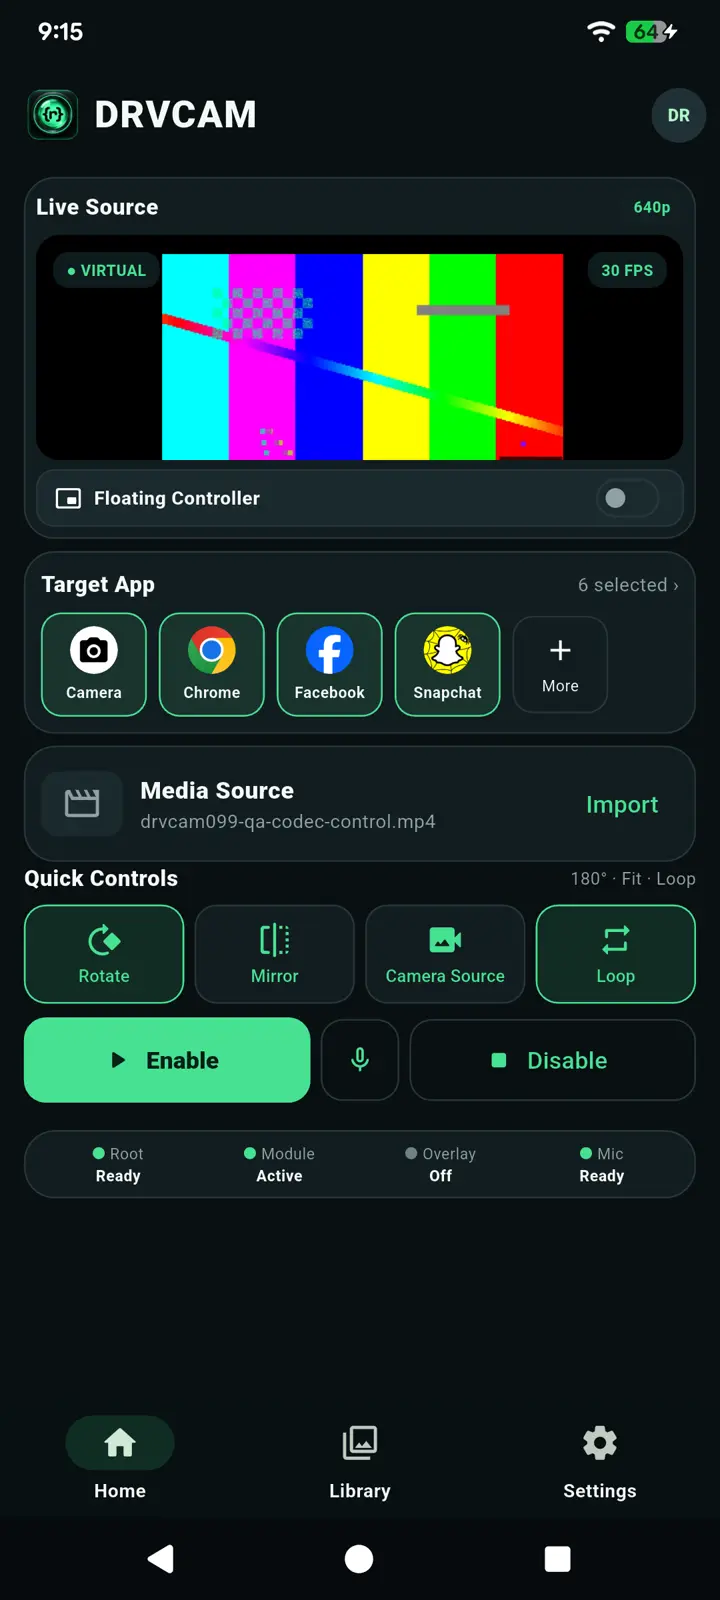
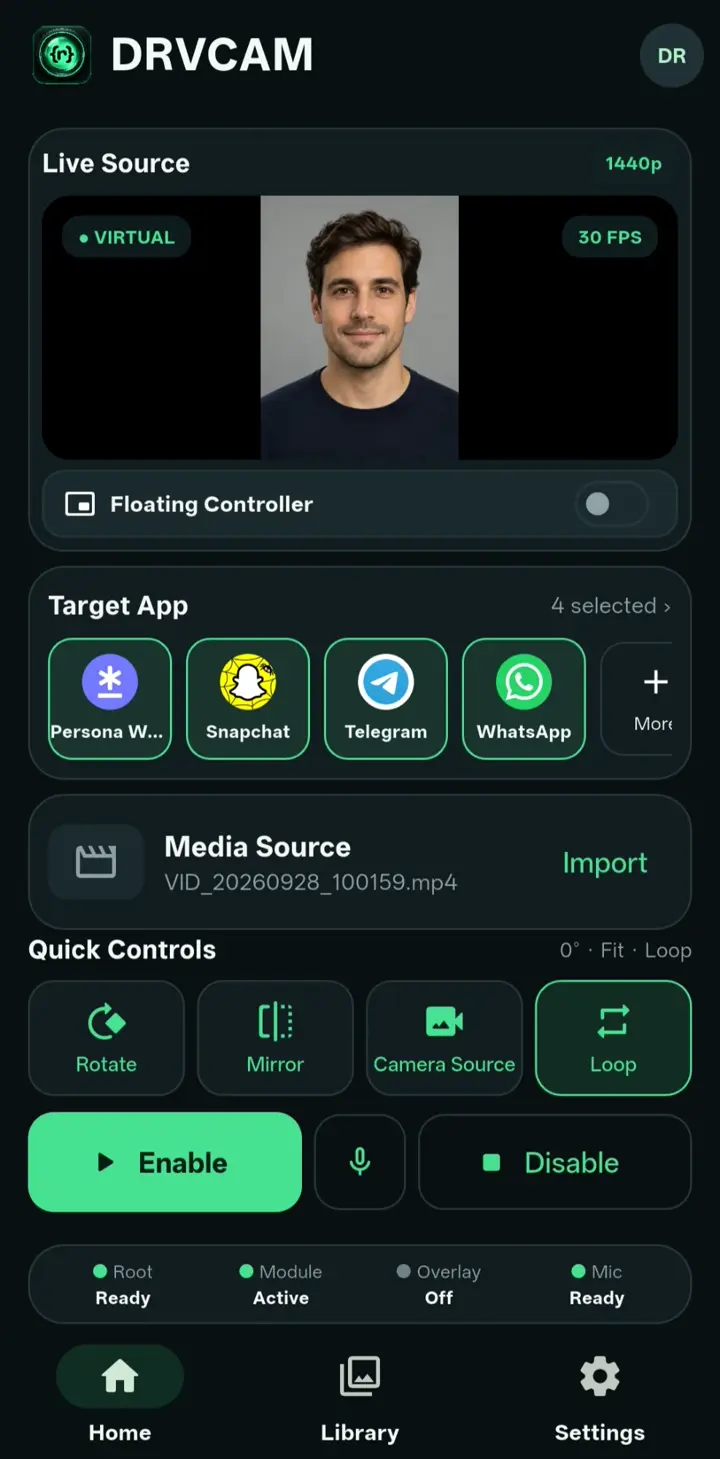
docs: simplify downloads to two files, swap in better screenshots
- Only phone and emulator builds are released now; dropped the
  legacy/modern duplicate-named copies from the download table.
- Home and Floating Controller screenshots replaced with clearer shots.
- Presets screenshot was cropped before Preset 4; fixed.

diff --git a/README.ja.md b/README.ja.md
@@ -57,10 +57,8 @@
 
 | ビルド | Android | 対象 |
 |---|---|---|
-| `DRVCAM-modern-phone.apk` | 9〜17 | スマートフォン・タブレット、arm64 |
-| `DRVCAM-legacy-phone.apk` | 9〜17 | スマートフォン・タブレット、arm64 |
-| `DRVCAM-modern-emulator.apk` | 9〜17 | エミュレーター、x86_64 |
-| `DRVCAM-legacy-emulator.apk` | 9〜17 | エミュレーター、x86_64 |
+| `DRVCAM-phone.apk` | 9〜17 | スマートフォン・タブレット、arm64 |
+| `DRVCAM-emulator.apk` | 9〜17 | エミュレーター、x86_64 |
 
 お使いの端末に合うビルドを**[最新リリース](https://github.com/saadnahid7/drvcam-releases/releases/latest)**から入手してください。各リリースには`SHA256SUMS.txt`が含まれます。インストール前にダウンロードを検証してください。同じビルドと対話形式の選択ツールは[製品ページ](https://www.droidrooter.com/drvcam/)にもあります。
 

diff --git a/README.ar.md b/README.ar.md
@@ -59,10 +59,8 @@
 
 | الحزمة | Android | الجهاز المستهدف |
 |---|---|---|
-| `DRVCAM-modern-phone.apk` | 9 إلى 17 | هاتف/جهاز لوحي، arm64 |
-| `DRVCAM-legacy-phone.apk` | 9 إلى 17 | هاتف/جهاز لوحي، arm64 |
-| `DRVCAM-modern-emulator.apk` | 9 إلى 17 | محاكٍ، x86_64 |
-| `DRVCAM-legacy-emulator.apk` | 9 إلى 17 | محاكٍ، x86_64 |
+| `DRVCAM-phone.apk` | 9 إلى 17 | هاتف/جهاز لوحي، arm64 |
+| `DRVCAM-emulator.apk` | 9 إلى 17 | محاكٍ، x86_64 |
 
 نزّل الحزمة المناسبة لجهازك من **[أحدث إصدار](https://github.com/saadnahid7/drvcam-releases/releases/latest)**. يتضمن كل إصدار ملف `SHA256SUMS.txt` — تحقق من تنزيلك قبل التثبيت. تتوفر الحزم نفسها مع أداة اختيار تفاعلية أيضاً على [صفحة المنتج](https://www.droidrooter.com/drvcam/).
 

diff --git a/README.fr.md b/README.fr.md
@@ -57,10 +57,8 @@ Ce dépôt héberge uniquement **les téléchargements de DRVCAM** — aucun cod
 
 | Build | Android | Cible |
 |---|---|---|
-| `DRVCAM-modern-phone.apk` | 9 à 17 | Téléphone/tablette, arm64 |
-| `DRVCAM-legacy-phone.apk` | 9 à 17 | Téléphone/tablette, arm64 |
-| `DRVCAM-modern-emulator.apk` | 9 à 17 | Émulateur, x86_64 |
-| `DRVCAM-legacy-emulator.apk` | 9 à 17 | Émulateur, x86_64 |
+| `DRVCAM-phone.apk` | 9 à 17 | Téléphone/tablette, arm64 |
+| `DRVCAM-emulator.apk` | 9 à 17 | Émulateur, x86_64 |
 
 Récupérez le build adapté à votre appareil depuis la **[dernière version](https://github.com/saadnahid7/drvcam-releases/releases/latest)**. Chaque version inclut un `SHA256SUMS.txt` — vérifiez votre téléchargement avant d'installer. Les mêmes builds et un sélecteur interactif sont aussi disponibles sur la [page produit](https://www.droidrooter.com/drvcam/).
 

diff --git a/README.es.md b/README.es.md
@@ -57,10 +57,8 @@ Este repositorio aloja únicamente **las descargas de DRVCAM** — sin código f
 
 | Compilación | Android | Destino |
 |---|---|---|
-| `DRVCAM-modern-phone.apk` | 9 a 17 | Teléfono/tableta, arm64 |
-| `DRVCAM-legacy-phone.apk` | 9 a 17 | Teléfono/tableta, arm64 |
-| `DRVCAM-modern-emulator.apk` | 9 a 17 | Emulador, x86_64 |
-| `DRVCAM-legacy-emulator.apk` | 9 a 17 | Emulador, x86_64 |
+| `DRVCAM-phone.apk` | 9 a 17 | Teléfono/tableta, arm64 |
+| `DRVCAM-emulator.apk` | 9 a 17 | Emulador, x86_64 |
 
 Descarga la compilación que corresponde a tu dispositivo desde la **[última versión](https://github.com/saadnahid7/drvcam-releases/releases/latest)**. Cada versión incluye un `SHA256SUMS.txt`: verifica tu descarga antes de instalar. Las mismas compilaciones y un selector interactivo también están en la [página del producto](https://www.droidrooter.com/drvcam/).
 

diff --git a/README.it.md b/README.it.md
@@ -57,10 +57,8 @@ Questo repository ospita solo **i download di DRVCAM** — nessun codice sorgent
 
 | Build | Android | Destinazione |
 |---|---|---|
-| `DRVCAM-modern-phone.apk` | da 9 a 17 | Telefono/tablet, arm64 |
-| `DRVCAM-legacy-phone.apk` | da 9 a 17 | Telefono/tablet, arm64 |
-| `DRVCAM-modern-emulator.apk` | da 9 a 17 | Emulatore, x86_64 |
-| `DRVCAM-legacy-emulator.apk` | da 9 a 17 | Emulatore, x86_64 |
+| `DRVCAM-phone.apk` | da 9 a 17 | Telefono/tablet, arm64 |
+| `DRVCAM-emulator.apk` | da 9 a 17 | Emulatore, x86_64 |
 
 Scarica la build adatta al tuo dispositivo dall'**[ultima versione](https://github.com/saadnahid7/drvcam-releases/releases/latest)**. Ogni versione include un file `SHA256SUMS.txt`: verifica il download prima di installare. Le stesse build e un selettore interattivo sono disponibili anche sulla [pagina del prodotto](https://www.droidrooter.com/drvcam/).
 

diff --git a/README.md b/README.md
@@ -57,10 +57,8 @@ This repository hosts DRVCAM's **release downloads only** — no source code. Pr
 
 | Build | Android | Target |
 |---|---|---|
-| `DRVCAM-modern-phone.apk` | 9 to 17 | Phone/tablet, arm64 |
-| `DRVCAM-legacy-phone.apk` | 9 to 17 | Phone/tablet, arm64 |
-| `DRVCAM-modern-emulator.apk` | 9 to 17 | Emulator, x86_64 |
-| `DRVCAM-legacy-emulator.apk` | 9 to 17 | Emulator, x86_64 |
+| `DRVCAM-phone.apk` | 9 to 17 | Phone/tablet, arm64 |
+| `DRVCAM-emulator.apk` | 9 to 17 | Emulator, x86_64 |
 
 Grab the build that matches your device from the **[latest release](https://github.com/saadnahid7/drvcam-releases/releases/latest)**. Each release includes a `SHA256SUMS.txt` — verify your download before installing. The same builds and an interactive picker are also on the [product page](https://www.droidrooter.com/drvcam/).
 

diff --git a/README.zh-hans.md b/README.zh-hans.md
@@ -57,10 +57,8 @@
 
 | 构建版本 | Android | 适用对象 |
 |---|---|---|
-| `DRVCAM-modern-phone.apk` | 9 至 17 | 手机/平板，arm64 |
-| `DRVCAM-legacy-phone.apk` | 9 至 17 | 手机/平板，arm64 |
-| `DRVCAM-modern-emulator.apk` | 9 至 17 | 模拟器，x86_64 |
-| `DRVCAM-legacy-emulator.apk` | 9 至 17 | 模拟器，x86_64 |
+| `DRVCAM-phone.apk` | 9 至 17 | 手机/平板，arm64 |
+| `DRVCAM-emulator.apk` | 9 至 17 | 模拟器，x86_64 |
 
 请从**[最新版本](https://github.com/saadnahid7/drvcam-releases/releases/latest)**中获取适合你设备的构建版本。每个版本都附带 `SHA256SUMS.txt`——安装前请先校验下载文件。[产品页面](https://www.droidrooter.com/drvcam/)上也提供相同的构建版本及交互式选择工具。
 
